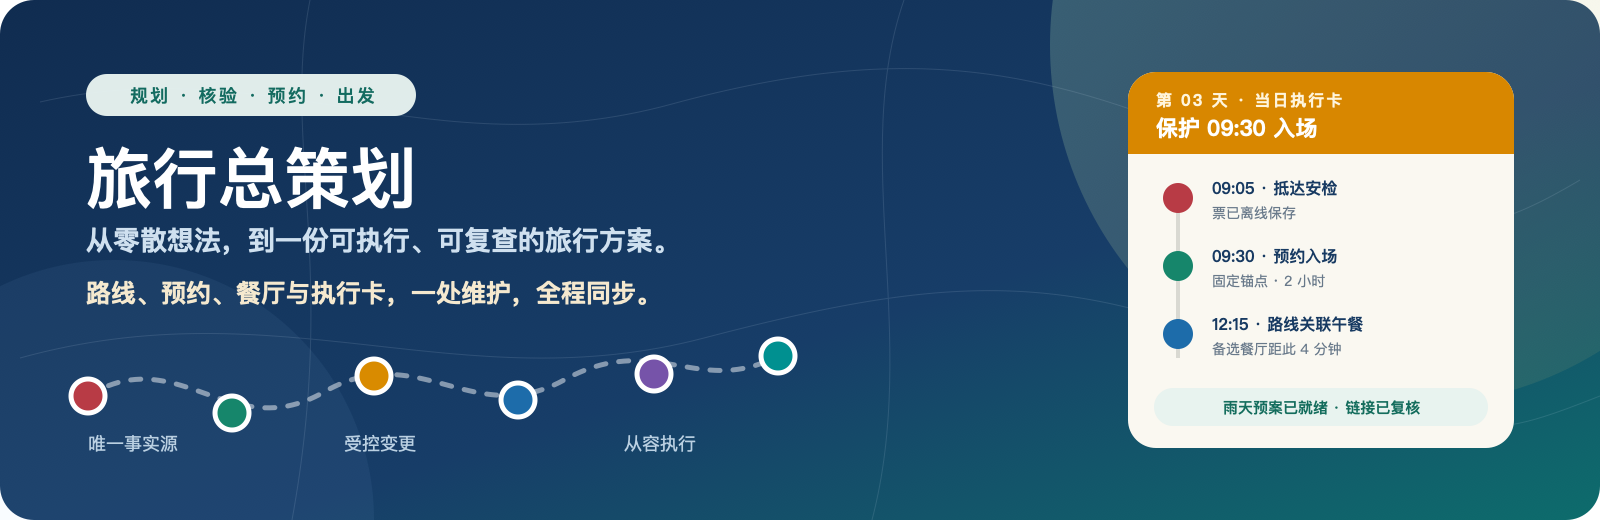
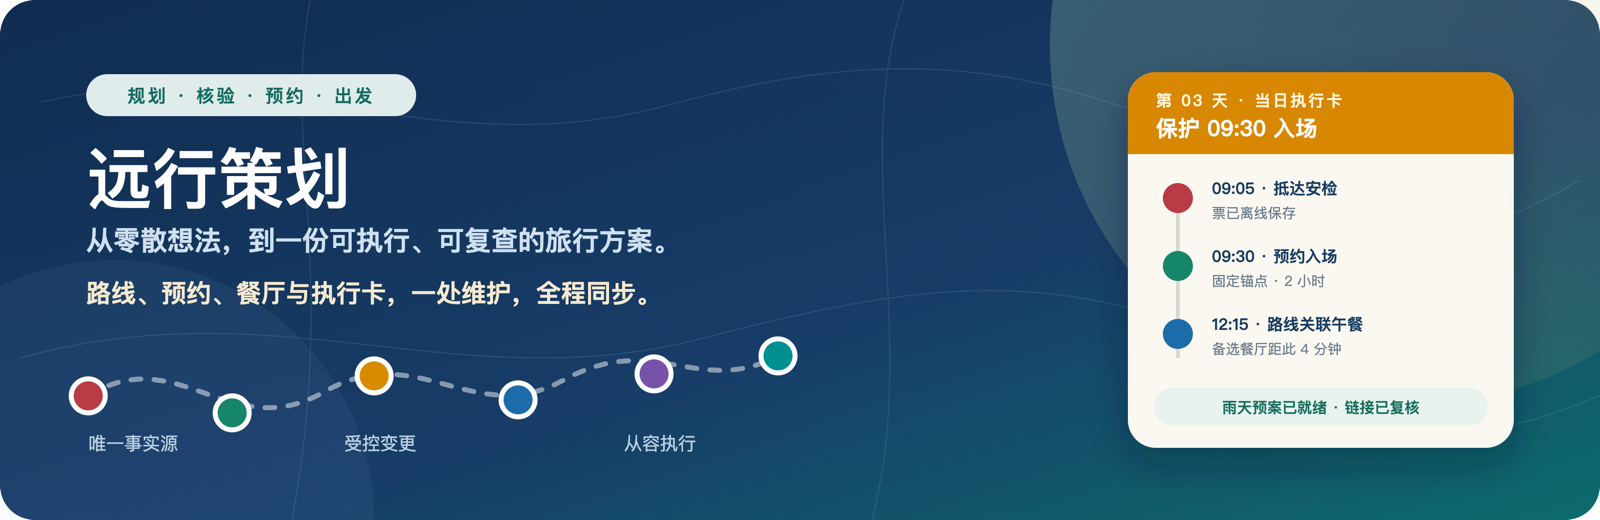
docs: brand trip planner as 远行策划

diff --git a/web/index.html b/web/index.html
@@ -4,7 +4,7 @@
   <meta charset="utf-8">
   <meta name="viewport" content="width=device-width, initial-scale=1">
   <meta name="description" content="用地图、逐日时间轴和 Codex 修改提案管理你的旅程。">
-  <title>旅行工作台 · Plan & Maintain Trips</title>
+  <title>远行策划 · 旅行工作台</title>
   <link rel="preconnect" href="https://fonts.googleapis.com">
   <link rel="preconnect" href="https://fonts.gstatic.com" crossorigin>
   <link href="https://fonts.googleapis.com/css2?family=DM+Sans:wght@400;500;600;700&family=Noto+Sans+SC:wght@400;500;600;700&family=Noto+Serif+SC:wght@500;600;700&display=swap" rel="stylesheet">
@@ -16,7 +16,7 @@
 </head>
 <body>
   <header class="topbar">
-    <a class="brand" href="../" aria-label="Plan & Maintain Trips 首页"><span class="brand-mark">✳</span><span>Plan <em>&</em> Maintain Trips</span></a>
+    <a class="brand" href="../" aria-label="远行策划首页"><span class="brand-mark">✳</span><span>远行策划</span></a>
     <nav class="topnav" aria-label="工作台导航"><a href="https://github.com/judefluen-coder/plan-and-maintain-trips/blob/main/examples/france-2026/guide.md" target="_blank" rel="noopener noreferrer">巴黎原攻略 ↗</a><span class="nav-divider"></span><a href="./map-lab.html">地图样式试验场 ↗</a><span class="nav-divider"></span><a href="https://github.com/judefluen-coder/plan-and-maintain-trips" target="_blank" rel="noopener noreferrer">项目说明 ↗</a><span class="nav-divider"></span><span class="topnav-label">TRIP WORKBENCH <b>01</b></span></nav>
   </header>
 

diff --git a/web/map-lab.html b/web/map-lab.html
@@ -4,7 +4,7 @@
   <meta charset="utf-8">
   <meta name="viewport" content="width=device-width, initial-scale=1">
   <meta name="description" content="比较六种旅行地图的景点标注方式与原创地标图形。">
-  <title>地图标注试验场 · Plan & Maintain Trips</title>
+  <title>地图标注试验场 · 远行策划</title>
   <link rel="preconnect" href="https://fonts.googleapis.com">
   <link rel="preconnect" href="https://fonts.gstatic.com" crossorigin>
   <link href="https://fonts.googleapis.com/css2?family=DM+Sans:wght@400;500;600;700&family=Noto+Sans+SC:wght@400;500;600;700&family=Noto+Serif+SC:wght@500;600;700&display=swap" rel="stylesheet">
@@ -16,7 +16,7 @@
 </head>
 <body data-theme="atlas">
   <header class="site-header">
-    <a class="brand" href="./"><span class="brand-seal">✳</span><span>Plan <em>&</em> Maintain Trips</span></a>
+    <a class="brand" href="./"><span class="brand-seal">✳</span><span>远行策划</span></a>
     <a class="back-link" href="./">返回旅行工作台 <span aria-hidden="true">↗</span></a>
   </header>
   <main class="page-shell">

diff --git a/README.md b/README.md
@@ -1,10 +1,10 @@
 <p align="center">
   <a href="assets/readme-hero.svg">
-    <img src="assets/readme-hero.png" alt="旅行总策划——从零散想法到可执行旅程" width="100%">
+    <img src="assets/readme-hero.png" alt="远行策划——从零散想法到可执行旅程" width="100%">
   </a>
 </p>
 
-<h1 align="center">Plan & Maintain Trips</h1>
+<h1 align="center">远行策划 · Plan & Maintain Trips</h1>
 
 <p align="center">
   <strong>简体中文</strong> · <a href="./README.en.md">English</a>
@@ -15,7 +15,7 @@
 </p>
 
 <p align="center">
-  <img alt="Codex 旅行总策划 Skill" src="https://img.shields.io/badge/Codex-%E6%97%85%E8%A1%8C%E6%80%BB%E7%AD%96%E5%88%92-163A63?style=flat-square">
+  <img alt="Codex 远行策划 Skill" src="https://img.shields.io/badge/Codex-%E8%BF%9C%E8%A1%8C%E7%AD%96%E5%88%92-163A63?style=flat-square">
   <img alt="目的地覆盖全球" src="https://img.shields.io/badge/%E7%9B%AE%E7%9A%84%E5%9C%B0-%E5%85%A8%E7%90%83-16856B?style=flat-square">
   <img alt="输出每日攻略图" src="https://img.shields.io/badge/%E8%BE%93%E5%87%BA-%E6%AF%8F%E6%97%A5%E6%94%BB%E7%95%A5%E5%9B%BE-D88700?style=flat-square">
   <img alt="支持多文档发布" src="https://img.shields.io/badge/%E5%8F%91%E5%B8%83-%E5%A4%9A%E6%96%87%E6%A1%A3-7354A5?style=flat-square">
@@ -126,7 +126,7 @@
 | 持续调整 | 每次改日期、酒店或景点时，检查受影响的预约、路线、餐厅与地图 | 变更记录 + 同步更新后的全套产物 |
 | 最终交付 | 审计日期、晚数、硬锚点、链接、预算和版本一致性，再按需发布 | Markdown / 飞书 / Notion / Google Docs / DOCX / PDF |
 
-## 为什么选 Plan & Maintain Trips
+## 为什么选远行策划
 
 旅行计划最难的不是列出景点，而是订票、路线和临时变动之后，整份攻略仍然能用。这个 Skill 着重解决以下问题：
 

diff --git a/SKILL.md b/SKILL.md
@@ -3,7 +3,7 @@ name: plan-and-maintain-trips
 description: Plan, research, revise, audit, and publish executable trips for any destination. Use when Codex needs to design a single-city or multi-city itinerary, compare lodging or transport, manage fixed bookings and changing constraints, distinguish booking availability from unreleased inventory, create route maps and day-of field cards, recheck volatile travel facts, or publish a final travel guide to an available document platform.
 ---
 
-# Plan and Maintain Trips
+# 远行策划 · Plan and Maintain Trips
 
 Treat a trip as a maintained project, not a one-shot list of attractions. Keep one canonical state, preserve user decisions, verify volatile facts from current sources, and derive every itinerary, checklist, map, and published document from that state.
 

diff --git a/web/README.md b/web/README.md
@@ -1,4 +1,4 @@
-# 旅行工作台 · 在线使用与本机连接
+# 远行策划工作台 · 在线使用与本机连接
 
 这是 GitHub Pages 上的可交互前端，与本地 `trip.json` 和可选的 Codex 桥接配合。它不是托管式 AI 服务。
 

diff --git a/README.en.md b/README.en.md
@@ -6,6 +6,8 @@
 
 <h1 align="center">Plan & Maintain Trips</h1>
 
+<p align="center">远行策划</p>
+
 <p align="center">
   <a href="./README.md">简体中文</a> · <strong>English</strong>
 </p>
